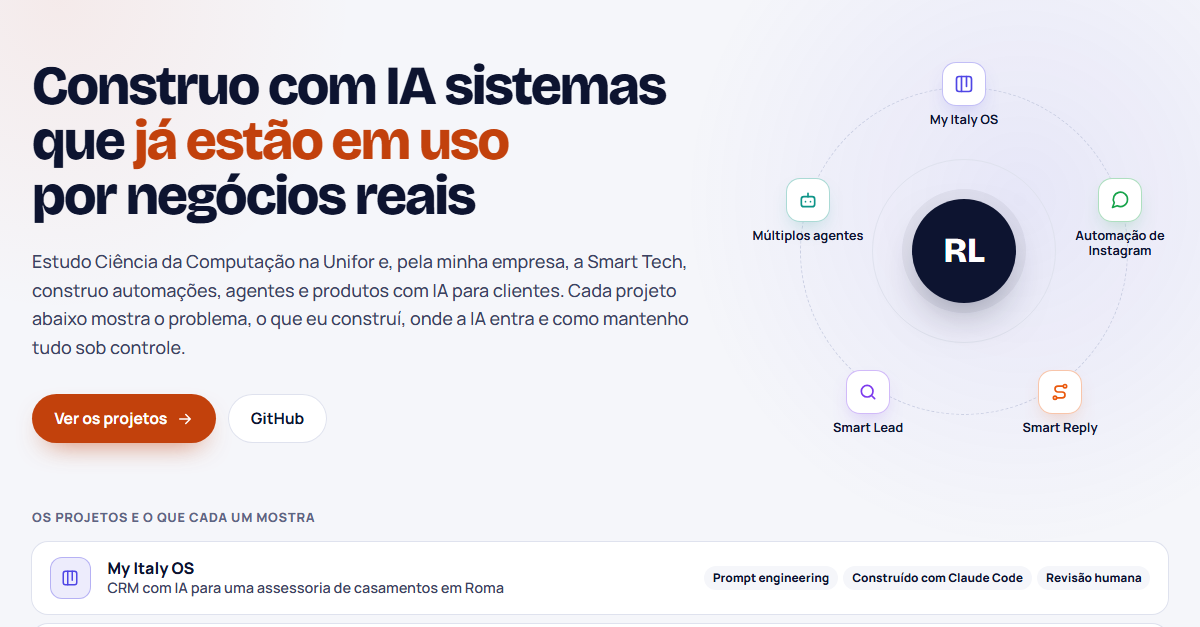
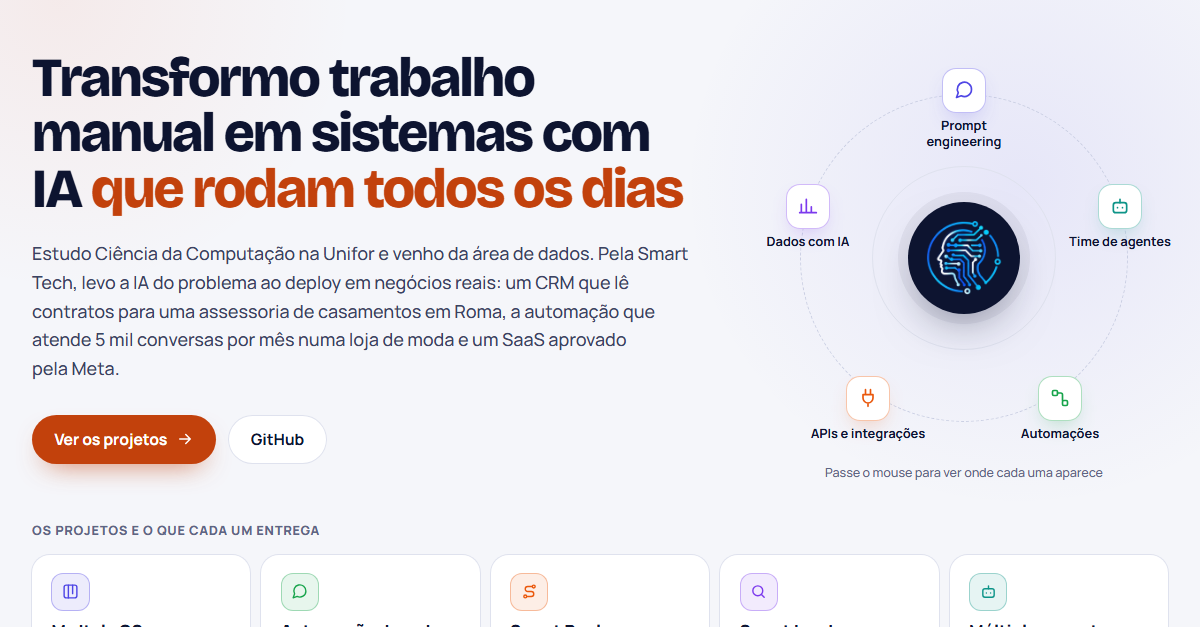
Topo e Sobre mim reescritos com exemplos concretos

diff --git a/index.html b/index.html
@@ -287,8 +287,8 @@
     <div class="wrap">
       <div class="topo">
       <div>
-      <h1 data-reveal style="--d:60ms">Construo com IA sistemas que <em>já estão em uso</em> por negócios reais</h1>
-      <p class="lead" data-reveal style="--d:120ms">Estudo Ciência da Computação na Unifor e, pela minha empresa, a Smart Tech, construo automações, agentes e produtos com IA para clientes. Cada projeto abaixo mostra o problema, o que eu construí, onde a IA entra e como mantenho tudo sob controle.</p>
+      <h1 data-reveal style="--d:60ms">Transformo trabalho manual em sistemas com IA <em>que rodam todos os dias</em></h1>
+      <p class="lead" data-reveal style="--d:120ms">Estudo Ciência da Computação na Unifor e venho da área de dados. Pela Smart Tech, levo a IA do problema ao deploy em negócios reais: um CRM que lê contratos para uma assessoria de casamentos em Roma, a automação que atende 5 mil conversas por mês numa loja de moda e um SaaS aprovado pela Meta.</p>
       <div class="cta" data-reveal style="--d:180ms">
         <a class="btn btn-ember" href="#projetos">Ver os projetos <svg><use href="#i-arrow"/></svg></a>
         <a class="btn btn-ghost" href="https://github.com/rafaeleites" target="_blank" rel="noopener">GitHub</a>
@@ -722,7 +722,7 @@
   <section id="sobre" class="plain">
     <div class="wrap">
       <h2 data-reveal>Sobre mim</h2>
-      <p class="sub" data-reveal>Venho da área de dados e há cerca de um ano construo com IA. Uso Claude Code, Gemini CLI e agentes no dia a dia, e cada projeto tem um arquivo com as regras do negócio que a IA segue.</p>
+      <p class="sub" data-reveal>Comecei em dados, com SQL, Python e Power BI, medindo campanhas e funis de venda. Há cerca de um ano passei a construir com IA, e o método continua o mesmo: entender o problema, medir o antes e o depois e só então automatizar. No dia a dia trabalho com Claude Code, Gemini CLI e um time de agentes que planeja, implementa e revisa. Cada projeto tem um arquivo com as regras do negócio que a IA segue, e é isso que deixa o trabalho rápido sem perder o controle.</p>
       <div class="steps">
         <div class="step" data-reveal><b>01</b><h3>Problema e métrica antes do código</h3><p>Quem sofre com o problema, quanto ele custa e como vou medir o antes e o depois.</p></div>
         <div class="step" data-reveal style="--d:80ms"><b>02</b><h3>Simples primeiro, IA onde agrega</h3><p>Regra e automação resolvem a maior parte. A IA entra em texto livre, documento ou decisão difusa.</p></div>
